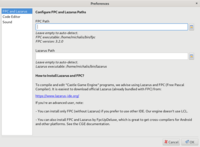
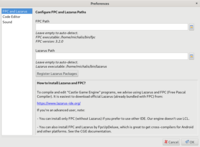
Button "Register Lazarus Packages" simplifies the installation process

Changed region(s): [[0.18, 0.4898, 0.99, 0.9252], [0.15, 0.1361, 0.96, 0.2177]]

diff --git a/htdocs/manual_install_run_first.php b/htdocs/manual_install_run_first.php
@@ -13,7 +13,6 @@ $toc = new TableOfContents(
   array(
     new TocItem('Installation', 'install'),
     new TocItem('Build and run your first application', 'fist_app'),
-    new TocItem('Optional: Install Lazarus packages', 'lazarus'),
   )
 );
 
@@ -51,6 +50,14 @@ $toc = new TableOfContents(
       array('filename' => 'cge_editor_prefs.png', 'titlealt' => 'Castle Game Engine Editor Preferences'),
     ), 'auto', 'left');
     ?>
+
+  <li><p>While you are there (<i>Preferences</i> dialog, default tab <i>FPC and Lazarus</i>) also click on the button <i>"Register Lazarus Packages"</i>. This will make compilation of CGE applications using Lazarus go smoothly.
+
+    <?php
+    echo castle_thumbs(array(
+      array('filename' => 'cge_lazarus_registered_ok', 'titlealt' => 'Lazarus packages registration confirmation'),
+    ), 'auto', 'left');
+    ?>
 </ol>
 
 <?php echo $toc->html_section(); ?>
@@ -74,89 +81,6 @@ $toc = new TableOfContents(
 
     <p>Open and try numerous example projects from the engine <code>examples</code> subdirectory. Open them in the editor by <i>Open Project</i> and point at the example's <a href="https://github.com/castle-engine/castle-engine/wiki/CastleEngineManifest.xml-examples">CastleEngineManifest.xml</a> file. Projects can also be compiled using <a href="https://github.com/castle-engine/castle-engine/wiki/Build-Tool">Castle Game Engine command-line build tool</a>.
 </ol>
-
-<!--p>The editor executes under the hood our <a href="https://github.com/castle-engine/castle-engine/wiki/Build-Tool">build tool</a> which in turn executes under the hood FPC (and some other tools, depending on the platform).-->
-
-<!--
-<p>The editor and build tool are most natural to build
-applications that do not depend on LCL (<i>Lazarus Component Library</i>).
-This means that you should initialize your game window using
-the <?php api_link('TCastleWindowBase', 'CastleWindow.TCastleWindowBase.html'); ?> class.
-Our documentation and most examples follow this approach too.
--->
-
-<?php echo $toc->html_section(); ?>
-
-<p>We advise using a full-featured Pascal IDE
-like <a href="http://lazarus.freepascal.org/">Lazarus</a> for development.
-To make Lazarus "aware" of <i>Castle Game Engine</i> you need to compile in Lazarus
-some engine <i>packages</i>.
-
-<ol>
-
-  <li><p>Open and <b>compile the package <code>castle_base.lpk</code></b>
-    You will find it in the <code>castle_game_engine/packages/</code> subdirectory.
-    Use the Lazarus menu item <i>"Package -&gt; Open Package File (.lpk)"</i>
-    to open the package file, press <i>"Compile"</i> in a dialog that appears.
-
-    <?php
-    echo castle_thumbs(array(
-      array('filename' => 'lazarus-install-01.png', 'titlealt' => 'castle_base: Open Package File'),
-      array('filename' => 'lazarus-install-02.png', 'titlealt' => 'castle_base: Choose the file'),
-      array('filename' => 'lazarus-install-03.png', 'titlealt' => 'castle_base: Compile'),
-    ), 'auto', 'left', 'small_thumb_const_height_size');
-    ?>
-
-  <li><p>Similarly, open and <b>compile the package <code>castle_window.lpk</code></b>.
-
-    <p>Note: <i>do not</i> install the <code>castle_window</code> package.
-
-    <?php
-    echo castle_thumbs(array(
-      array('filename' => 'lazarus-install-21.png', 'titlealt' => 'castle_window: Choose the file'),
-      array('filename' => 'lazarus-install-22.png', 'titlealt' => 'castle_window: Compile'),
-    ), 'auto', 'left', 'small_thumb_const_height_size');
-    ?>
-
-  <li><p>Finally, open and <b>install the package <code>castle_components.lpk</code></b>.
-    In the package dialog, the option to <i>"Install"</i> package is under the <i>"Use"</i> button.
-
-    <!--p>Note: Installing the <code>castle_components</code> package
-    will also automatically install the package <code>castle_base</code>,
-    as a dependency. That's cool, let it happen.-->
-
-    <?php
-    echo castle_thumbs(array(
-      array('filename' => 'lazarus-install-31.png', 'titlealt' => 'castle_components: Choose the file'),
-      array('filename' => 'lazarus-install-32.png', 'titlealt' => 'castle_components: Install'),
-      array('filename' => 'lazarus-install-33.png', 'titlealt' => 'castle_components: Confirm Lazarus rebuild'),
-    ), 'auto', 'left', 'small_thumb_const_height_size');
-    ?>
-</ol>
-
-<p>Once <code>castle_components.lpk</code> is successfully installed,
-Lazarus restarts, and you should see the <i>"Castle"</i> tab
-with our components.
-<!--
- at the top (TODO: screenshot). Sorry,
-we don't have icons for our components yet, so it looks a little
-boring. Mouse over the icons to see component names.--></p>
-
-<p><b>You're done:)</b>
-Now compile and run from Lazarus any engine example.
-Open the project file (<code>xxx.lpi</code>) using Lazarus, and compile and run from Lazarus (F9).
-A good examples to try at the beginning are
-<code>examples/fps_game/fps_game.lpi</code> and
-<code>examples/lazarus/model_3d_viewer/</code>.</p>
-
-<?php
-echo castle_thumbs(array(
-  array('filename' => 'lazarus-install-41.png', 'titlealt' => 'fps_game: Open Project'),
-  array('filename' => 'lazarus-install-42.png', 'titlealt' => 'fps_game: Choose the file'),
-  array('filename' => 'lazarus-install-43.png', 'titlealt' => 'fps_game: Run'),
-  array('filename' => 'lazarus-install-44.png', 'titlealt' => 'fps_game: Running!'),
-), 'auto', 'left', 'small_thumb_const_height_size');
-?>
 
 <?php
 manual_footer();

diff --git a/htdocs/unused/documentation_unused.php b/htdocs/unused/documentation_unused.php
@@ -199,3 +199,92 @@ initializing the window using the
 <?php echo download_donate_footer(); ?>
 </div>
 </div>
+
+------------------------------------------------------------------------------
+
+<!--p>The editor executes under the hood our <a href="https://github.com/castle-engine/castle-engine/wiki/Build-Tool">build tool</a> which in turn executes under the hood FPC (and some other tools, depending on the platform).-->
+
+------------------------------------------------------------------------------
+
+<!--
+<p>The editor and build tool are most natural to build
+applications that do not depend on LCL (<i>Lazarus Component Library</i>).
+This means that you should initialize your game window using
+the <?php api_link('TCastleWindowBase', 'CastleWindow.TCastleWindowBase.html'); ?> class.
+Our documentation and most examples follow this approach too.
+-->
+
+------------------------------------------------------------------------------
+
+<?php echo $toc->html_section(); ?>
+
+<p>We advise using a full-featured Pascal IDE
+like <a href="http://lazarus.freepascal.org/">Lazarus</a> for development.
+To make Lazarus "aware" of <i>Castle Game Engine</i> you need to compile in Lazarus
+some engine <i>packages</i>.
+
+<ol>
+
+  <li><p>Open and <b>compile the package <code>castle_base.lpk</code></b>
+    You will find it in the <code>castle_game_engine/packages/</code> subdirectory.
+    Use the Lazarus menu item <i>"Package -&gt; Open Package File (.lpk)"</i>
+    to open the package file, press <i>"Compile"</i> in a dialog that appears.
+
+    <?php
+    echo castle_thumbs(array(
+      array('filename' => 'lazarus-install-01.png', 'titlealt' => 'castle_base: Open Package File'),
+      array('filename' => 'lazarus-install-02.png', 'titlealt' => 'castle_base: Choose the file'),
+      array('filename' => 'lazarus-install-03.png', 'titlealt' => 'castle_base: Compile'),
+    ), 'auto', 'left', 'small_thumb_const_height_size');
+    ?>
+
+  <li><p>Similarly, open and <b>compile the package <code>castle_window.lpk</code></b>.
+
+    <p>Note: <i>do not</i> install the <code>castle_window</code> package.
+
+    <?php
+    echo castle_thumbs(array(
+      array('filename' => 'lazarus-install-21.png', 'titlealt' => 'castle_window: Choose the file'),
+      array('filename' => 'lazarus-install-22.png', 'titlealt' => 'castle_window: Compile'),
+    ), 'auto', 'left', 'small_thumb_const_height_size');
+    ?>
+
+  <li><p>Finally, open and <b>install the package <code>castle_components.lpk</code></b>.
+    In the package dialog, the option to <i>"Install"</i> package is under the <i>"Use"</i> button.
+
+    <!--p>Note: Installing the <code>castle_components</code> package
+    will also automatically install the package <code>castle_base</code>,
+    as a dependency. That's cool, let it happen.-->
+
+    <?php
+    echo castle_thumbs(array(
+      array('filename' => 'lazarus-install-31.png', 'titlealt' => 'castle_components: Choose the file'),
+      array('filename' => 'lazarus-install-32.png', 'titlealt' => 'castle_components: Install'),
+      array('filename' => 'lazarus-install-33.png', 'titlealt' => 'castle_components: Confirm Lazarus rebuild'),
+    ), 'auto', 'left', 'small_thumb_const_height_size');
+    ?>
+</ol>
+
+<p>Once <code>castle_components.lpk</code> is successfully installed,
+Lazarus restarts, and you should see the <i>"Castle"</i> tab
+with our components.
+<!--
+ at the top (TODO: screenshot). Sorry,
+we don't have icons for our components yet, so it looks a little
+boring. Mouse over the icons to see component names.--></p>
+
+<p><b>You're done:)</b>
+Now compile and run from Lazarus any engine example.
+Open the project file (<code>xxx.lpi</code>) using Lazarus, and compile and run from Lazarus (F9).
+A good examples to try at the beginning are
+<code>examples/fps_game/fps_game.lpi</code> and
+<code>examples/lazarus/model_3d_viewer/</code>.</p>
+
+<?php
+echo castle_thumbs(array(
+  array('filename' => 'lazarus-install-41.png', 'titlealt' => 'fps_game: Open Project'),
+  array('filename' => 'lazarus-install-42.png', 'titlealt' => 'fps_game: Choose the file'),
+  array('filename' => 'lazarus-install-43.png', 'titlealt' => 'fps_game: Run'),
+  array('filename' => 'lazarus-install-44.png', 'titlealt' => 'fps_game: Running!'),
+), 'auto', 'left', 'small_thumb_const_height_size');
+?>

diff --git a/htdocs/manual_lazarus_control.php b/htdocs/manual_lazarus_control.php
@@ -42,15 +42,36 @@ all the standard LCL GUI controls. So you can use numerous LCL GUI controls,
 with native look on all desktop systems,
 together with <i>Castle Game Engine</i>. To use this:
 
-<ul>
-  <li>Create a normal new project (using Lazarus <i>"New Project"</i> menu item).
-    Choose <i>"Application"</i>.
-  <li>Pick <code>TCastleControlBase</code> from the component palette (tab
-    <i>"Castle"</i>) and drop it on a regular Lazarus form.
-  <li>Press "Run" :)
-</ul>
+<ol>
+  <li><p>Install in Lazarus the package <code>castle_components.lpk</code>.
+    In the package dialog, the option to <i>"Install"</i> package is under the <i>"Use"</i> button.
 
-<p>See the engine examples in <a href="https://github.com/castle-engine/castle-engine/tree/master/examples/lazarus">examples/lazarus/</a> subdirectory for a demo of this approach.
+    <p>Note: Installing the <code>castle_components</code> package
+    will also automatically install the package <code>castle_base</code>,
+    as a dependency. That's good.
+
+    <?php
+    echo castle_thumbs(array(
+      array('filename' => 'lazarus-install-31.png', 'titlealt' => 'castle_components: Choose the file'),
+      array('filename' => 'lazarus-install-32.png', 'titlealt' => 'castle_components: Install'),
+      array('filename' => 'lazarus-install-33.png', 'titlealt' => 'castle_components: Confirm Lazarus rebuild'),
+    ), 'auto', 'left', 'small_thumb_const_height_size');
+    ?>
+
+    <p>Once <code>castle_components.lpk</code> is successfully installed,
+    Lazarus restarts, and you should see the <i>"Castle"</i> tab
+    with our components.
+
+  <li><p>Create a normal new project (using Lazarus <i>"New Project"</i> menu item).
+    Choose <i>"Application"</i>.
+
+  <li><p>Pick <code>TCastleControlBase</code> from the component palette (tab
+    <i>"Castle"</i>) and drop it on a regular Lazarus form.
+
+  <li><p>Press "Run" :)
+</ol>
+
+<p>See the engine examples in <a href="https://github.com/castle-engine/castle-engine/tree/master/examples/lazarus">examples/lazarus/</a> subdirectory for various demos of this approach.
 
 <?php
 manual_footer();
